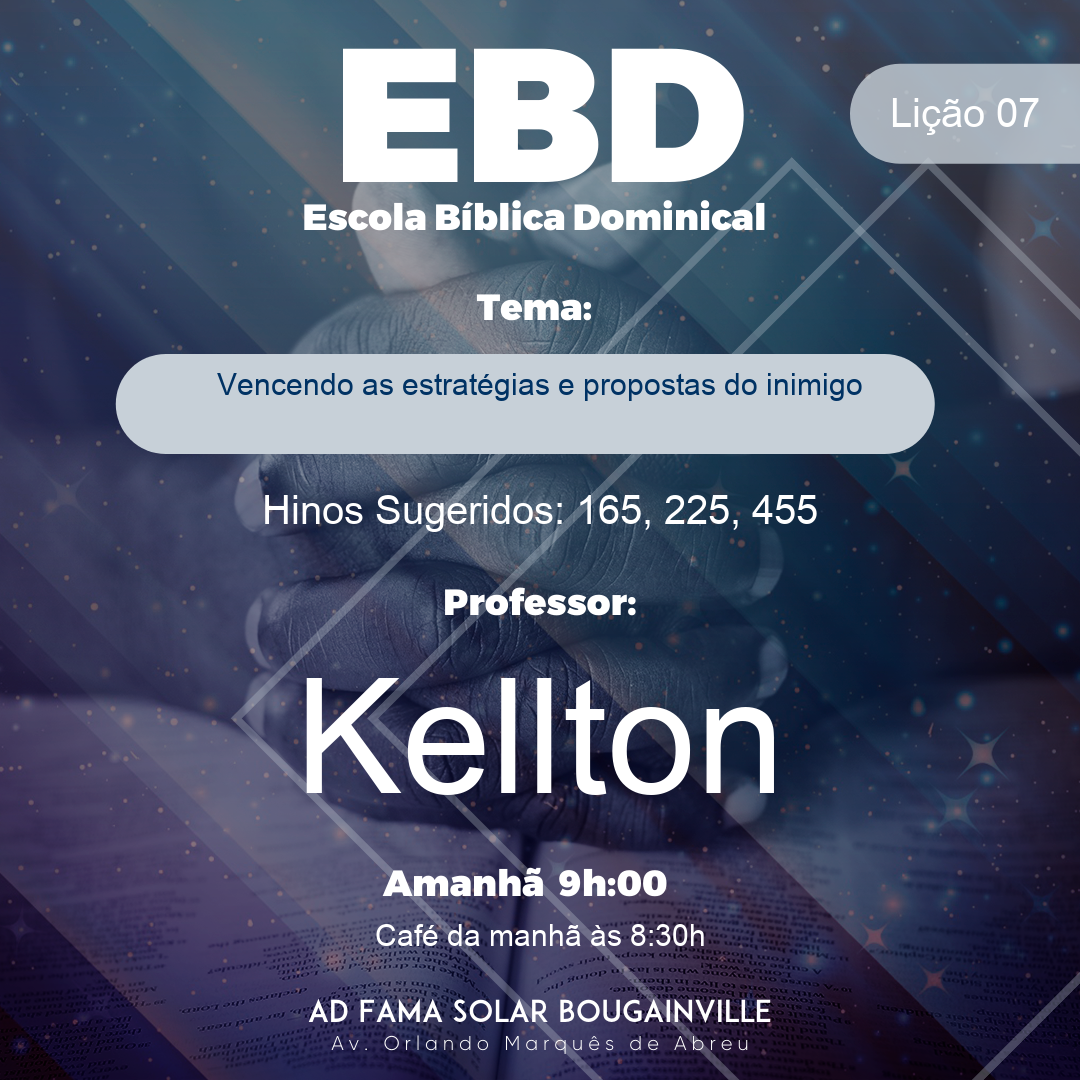
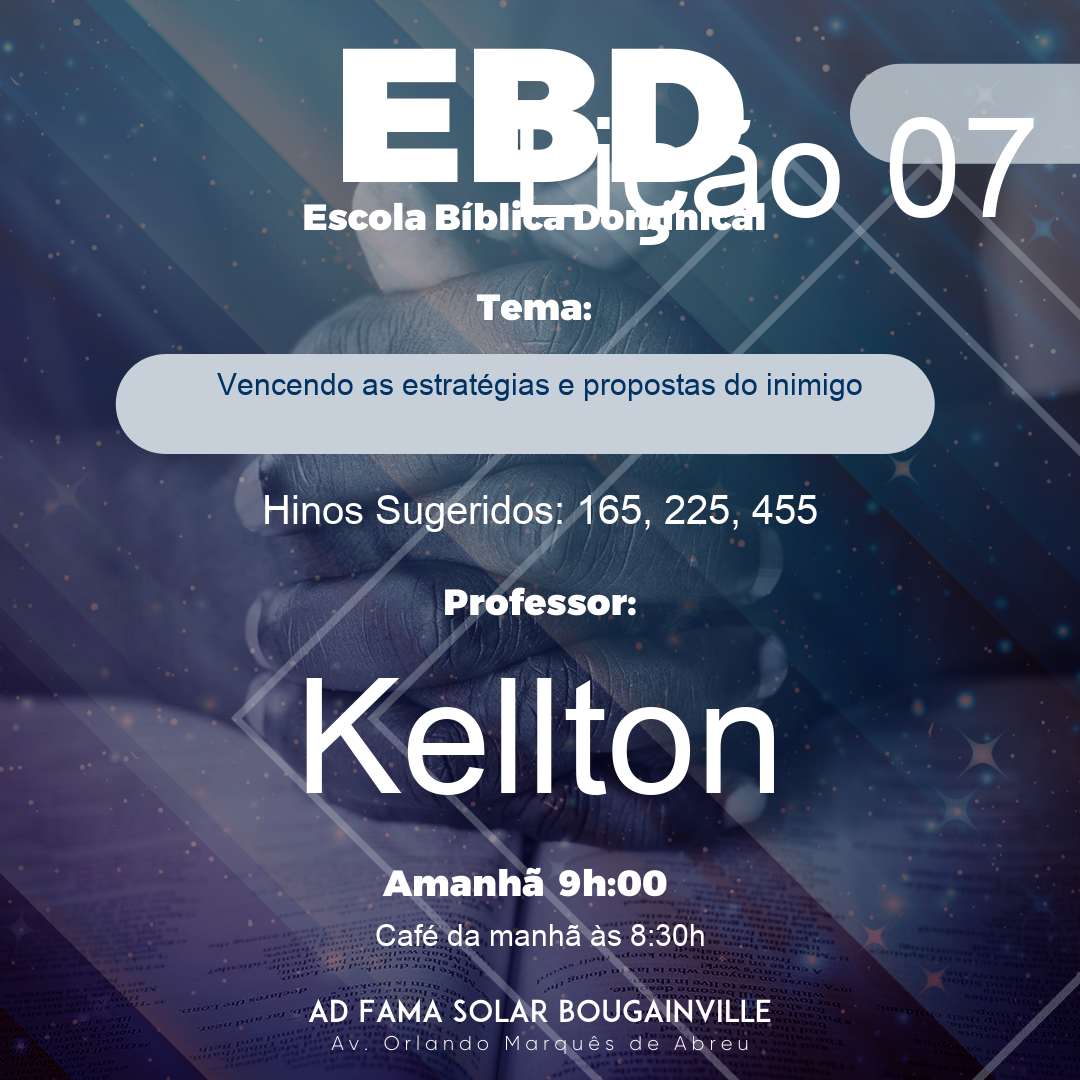
alterando tamanho do numero da licao

Changed region(s): [[0.4583, 0.0917, 0.7944, 0.2444], [0.825, 0.0917, 0.9778, 0.2139]]

diff --git a/src/image_gen.py b/src/image_gen.py
@@ -35,7 +35,7 @@ def generate_card(lesson_data, professor_name, has_breakfast):
         print(f"DEBUG: Loading font from {FONT_PATH}")
         try:
             # Drastically increasing sizes based on user feedback
-            font_lesson = ImageFont.truetype(FONT_PATH, 40)
+            font_lesson = ImageFont.truetype(FONT_PATH, 140)
             font_theme = ImageFont.truetype(FONT_PATH, 30)
             font_hymns = ImageFont.truetype(FONT_PATH, 40)
             font_prof = ImageFont.truetype(FONT_PATH, 160)
